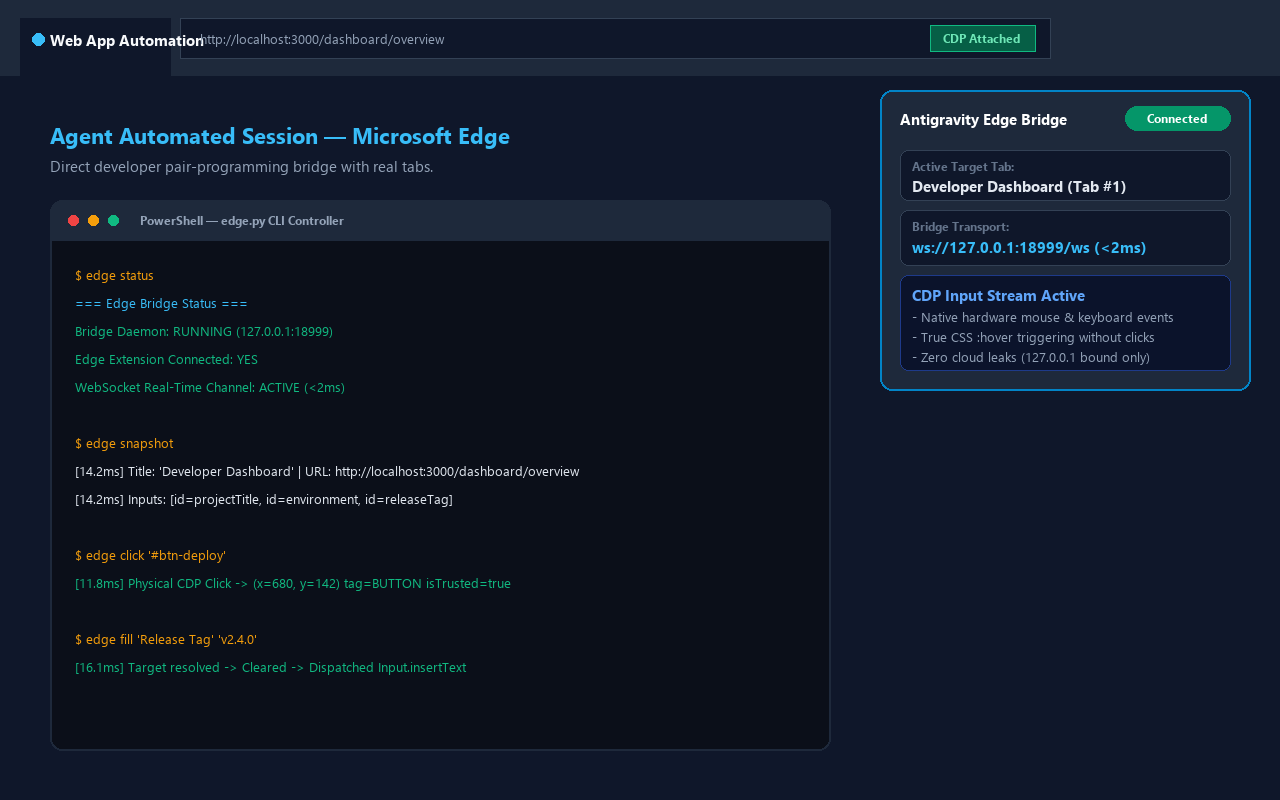
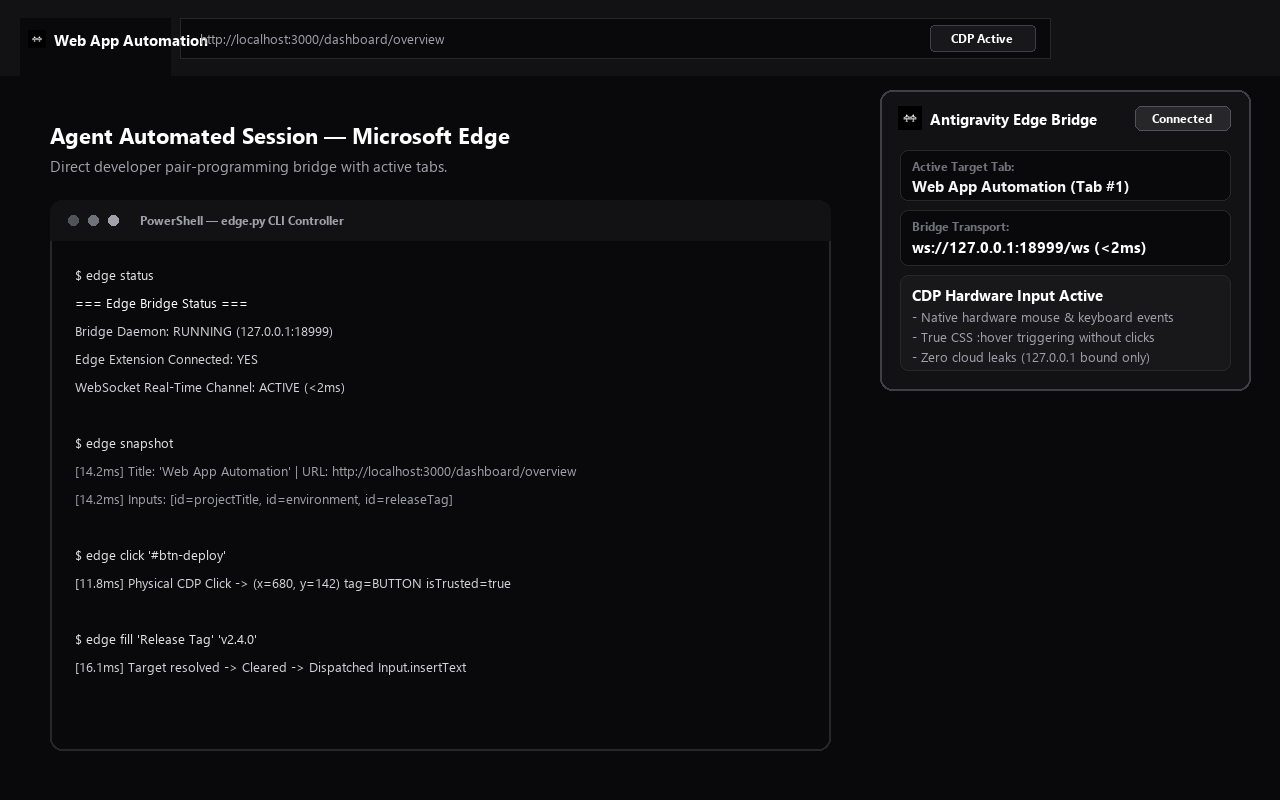
feat(store): release v1.1.0 minimal b&w branding, quickstart guide, and edge add-on docs

diff --git a/edge_agent_bridge/extension/popup.html b/edge_agent_bridge/extension/popup.html
@@ -96,11 +96,16 @@
   </div>
 
   <div class="section">
-    <div class="label">Activity</div>
-    <div id="logBox" class="log-box">Waiting for agent commands...</div>
+    <div class="label">Quick Start</div>
+    <div class="info-box" style="line-height: 1.5; user-select: all; color: #a6e3a1;">
+      pip install edge-agent-bridge<br>
+      edge-bridge status
+    </div>
   </div>
 
-  <div class="footer">Antigravity Agent Driving Edge</div>
+  <div class="footer">
+    <a href="https://github.com/shanewas/edge-agent-bridge" target="_blank" style="color: #89b4fa; text-decoration: none;">GitHub: edge-agent-bridge</a> &middot; MIT
+  </div>
 
   <script src="popup.js"></script>
 </body>

diff --git a/extension/popup.html b/extension/popup.html
@@ -96,11 +96,16 @@
   </div>
 
   <div class="section">
-    <div class="label">Activity</div>
-    <div id="logBox" class="log-box">Waiting for agent commands...</div>
+    <div class="label">Quick Start</div>
+    <div class="info-box" style="line-height: 1.5; user-select: all; color: #a6e3a1;">
+      pip install edge-agent-bridge<br>
+      edge-bridge status
+    </div>
   </div>
 
-  <div class="footer">Antigravity Agent Driving Edge</div>
+  <div class="footer">
+    <a href="https://github.com/shanewas/edge-agent-bridge" target="_blank" style="color: #89b4fa; text-decoration: none;">GitHub: edge-agent-bridge</a> &middot; MIT
+  </div>
 
   <script src="popup.js"></script>
 </body>

diff --git a/README.md b/README.md
@@ -37,13 +37,25 @@ Runs on Python 3.8+ without installing external packages.
 
 ## Fast Setup
 
-1. Open `edge://extensions` in Microsoft Edge and toggle Developer mode on.
-2. Run `edge-bridge extension open` in your terminal to reveal the extension folder.
-3. In Edge, select "Load unpacked" and pick that folder.
-4. Verify the connection by running:
-   ```bash
-   edge-bridge status
-   ```
+### 1. Install the Microsoft Edge Extension
+You can install the extension via either method:
+
+- **Method A (Microsoft Edge Add-ons Store)**:
+  Install the official **Antigravity Edge Bridge** extension from the [Microsoft Edge Add-ons Store](https://microsoftedge.microsoft.com/addons).
+- **Method B (Developer Mode / Unpacked)**:
+  1. Open `edge://extensions` in Edge and toggle **Developer mode** on.
+  2. Run in terminal:
+     ```bash
+     edge-bridge extension open
+     ```
+  3. Click **Load unpacked** and select that directory.
+
+### 2. Verify Connection
+Run in terminal:
+```bash
+edge-bridge status
+```
+When Microsoft Edge is open, the bridge daemon connects instantly over `127.0.0.1:18999` with sub-15ms WebSocket latency.
 
 ---
 
